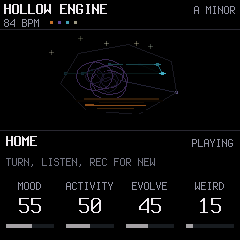
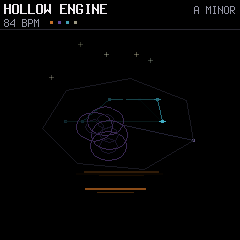
Home screen as The Outside Inside's: the view full-screen, K1-K4 the layers' levels shown while they turn, HOME held + K1-K4 the macros
Claude-Session: https://claude.ai/code/session_01BZyVySDnxf9xQi9jonD4bJ

diff --git a/app/app.c b/app/app.c
@@ -4,8 +4,10 @@
  * host/plat_host.c): gfx.c and announce.c are in scope.
  *
  * Controls
- *   K1-K4              the page's four macros
+ *   K1-K4              at HOME the layers' levels (shown while they turn); HOME held + K1-K4 the macros (MOOD,
+ *                      ACTIVITY, EVOLVE, WEIRD); on the other pages, their four macros
  *   HOME EDIT SEQ ENV FX LFO GLO ARP   the pages: HOME, SOUND, SEQUENCE, MIX, EFFECTS, MOTION, SCALE, MIDI
+ *   HOME tapped at HOME   the processor's load, and whether saving works
  *   SELECT, SEL        the layer the SOUND, SEQUENCE and MIX pages (and the keys) play
  *   PRESET             the chosen layer's engine
  *   ALGORITHM          your saved pieces
@@ -208,11 +210,12 @@ static struct {
     int last_knob; uint32_t knob_at;      /* the knob turned last: its name and value, big */
     char pop_t[28], pop_s[28], pop_3[40]; uint16_t pop_c; uint32_t pop_until;
     uint32_t list_until;                  /* the saved pieces' list */
-    uint32_t rec_t; int rec_used, sel_used, home_tap;
+    uint32_t rec_t; int rec_used, sel_used, home_used;
+    uint32_t panel_until; int panel_kind;     /* HOME: the levels (0) or the macros (1), shown a moment after a turn */
     uint32_t last_view, last_panel, last_head;
     uint8_t key_notes[NKEYS][5], key_n[NKEYS];
     int last_note, last_chord;
-    char head_key[64]; uint32_t panel_key;
+    char head_key[64];
     float t;
     uint32_t uiq_tail;
     uint32_t splash_t0; int splash_on, touched;
@@ -418,9 +421,18 @@ static void knob_turn(int k, int d)
     if (ann_on()) { char s[24]; knob_text(ui.page, k, s); say_text(kn->name, s); }
 }
 
+/* HOME: the knobs are the layers' levels, shown while they turn (HOME held: the macros) */
+static void level_turn(int l, int d)
+{
+    LayerP *lp = &set.cur.l[l];
+    lp->level = (uint8_t)clamp(lp->level + 2 * d, 0, 100);
+    changed();
+    ui.panel_kind = 0; ui.panel_until = plat_ms() + 2000u; ui.last_knob = l; ui.knob_at = plat_ms(); ui.pop_until = 0;
+    if (ann_on()) { char n[8]; int_text(lp->level, n); say_text(LAYER_NAME[l], n); }
+}
+
 static void page_to(int pg)
 {
-    if (pg == PG_HOME && ui.page == PG_HOME) { info(); return; }   /* HOME again: how the FM-1 is doing */
     ui.page = pg; ui.knob_at = 0; ui.pop_until = 0;
     if (ann_on()) say_text(PAGE_NAME[pg], page_has_layer(pg) ? LAYER_NAME[ui.sel] : "");
 }
@@ -471,7 +483,10 @@ static void input(void)
     int32_t d;
     if (down || (keys & ~ui.keys)) ui.touched = 1;
 
-    for (int pg = 0; pg < NPAGES; pg++) if (down >> PAGE_BTN[pg] & 1u) page_to(pg);
+    for (int pg = 1; pg < NPAGES; pg++) if (down >> PAGE_BTN[pg] & 1u) page_to(pg);
+    /* HOME: from another page, home; held, the macros; tapped at home, how the FM-1 is doing */
+    if (down >> B_HOME & 1u) { ui.home_used = ui.page != PG_HOME; if (ui.page != PG_HOME) page_to(PG_HOME); }
+    if ((up >> B_HOME & 1u) && !ui.home_used) info();
     if (down >> B_SEL & 1u) ui.sel_used = 0;
     if ((up >> B_SEL & 1u) && !ui.sel_used) select_layer(ui.sel + 1);
     if (down >> B_REC & 1u) {
@@ -486,7 +501,13 @@ static void input(void)
     if (down >> B_OCTUP & 1u) hist_step(1);
     keys_input(keys);
 
-    for (int k = 0; k < 4; k++) if ((d = enc(EN_K1 + k)) != 0) knob_turn(k, (int)d);
+    for (int k = 0; k < 4; k++) {
+        if ((d = enc(EN_K1 + k)) == 0) continue;
+        if (ui.page != PG_HOME) knob_turn(k, (int)d);
+        else if (btn >> B_HOME & 1u) { knob_turn(k, (int)d); ui.home_used = 1; ui.panel_kind = 1; ui.panel_until = plat_ms() + 1500u; }
+        else level_turn(k, (int)d);
+    }
+    if (btn >> B_HOME & 1u) { ui.panel_kind = 1; ui.panel_until = plat_ms() + 300u; }   /* held: the macros stay up */
     if ((d = enc(EN_SELECT)) != 0) select_layer(ui.sel + (int)d);
     if ((d = enc(EN_ALGO)) != 0) load_step((int)d);
     if ((d = enc(EN_PRESET)) != 0) {
@@ -511,9 +532,9 @@ void app_input_only(void) { input(); }
  * low down, BODY rings, LIGHT a bright point joined to the last by a line (the melody drawn), DUST specks. */
 #define HEAD_H 30
 #define VIEW_Y HEAD_H
-#define VIEW_H 100
-#define PANEL_Y (VIEW_Y + VIEW_H)
-#define PANEL_H (240 - PANEL_Y)
+#define VIEW_H (240 - HEAD_H)
+#define PANEL_H 110
+#define PANEL_TOP (VIEW_H - PANEL_H)     /* the panel, over the view's lower part */
 #define NSHAPE 96
 typedef struct { uint8_t on, layer; float x, y, age, life, size, vel; float px, py; } shape_t;
 static shape_t shp[NSHAPE];
@@ -584,7 +605,7 @@ static void draw_harmony(void)
 {
     const Scale *sc = &SCALES[set.cur.scale % NUM_SCALES];
     int n = sc->n, root = ((eng.root % n) + n) % n;
-    float cx = 120.0f, cy = (float)VIEW_H * 0.5f, r = 40.0f, rot = ui.t * 0.05f;
+    float cx = 120.0f, cy = (float)VIEW_H * 0.45f, r = 52.0f, rot = ui.t * 0.05f;
     float px = 0, py = 0, fx = 0, fy = 0;
     for (int i = 0; i <= n; i++) {
         float a = rot + (float)(i % n) / (float)n, x = cx + r * 1.5f * fm_sin_turns(a), y = cy - r * 0.9f * fm_sin_turns(a + 0.25f);
@@ -640,7 +661,7 @@ static void draw_popup(void)
     int wt = text_w(&FONT_S, ui.pop_t), ws = text_w(&FONT_M, ui.pop_s), w3 = ui.pop_3[0] ? text_w(&FONT_S, ui.pop_3) : 0;
     int w = wt > ws ? wt : ws; if (w3 > w) w = w3;
     w = clamp(w + 28, 120, 236);
-    int h = ui.pop_3[0] ? 78 : 58, y0 = (VIEW_H - h) / 2;
+    int h = ui.pop_3[0] ? 78 : 58, y0 = (PANEL_TOP - h) / 2 + 4;
     frame_box(120 - w / 2, y0, w, h, ui.pop_c);
     cv_text(120 - wt / 2, y0 + 7, &FONT_S, ui.pop_t, ui.pop_c);
     cv_text(120 - ws / 2, y0 + 25, &FONT_M, ui.pop_s, C_TXT);
@@ -651,7 +672,7 @@ static void draw_list(void)                 /* the saved pieces, around the one 
 {
     int n = set.nsaved, cur = set.slot == 255 ? 0 : set.slot, rows = 4;
     int first = clamp(cur - rows / 2, 0, n > rows ? n - rows : 0);
-    frame_box(6, 2, 228, 96, C_TXT);
+    frame_box(6, 4, 228, 94, C_TXT);
     cv_text(14, 6, &FONT_S, "PIECES", C_TXT);
     for (int i = 0; i < rows && first + i < n; i++) {
         char t[40], nm[32]; int y = 26 + i * 18;
@@ -661,15 +682,20 @@ static void draw_list(void)                 /* the saved pieces, around the one 
     }
 }
 
+static int panel_on(void) { return ui.page != PG_HOME || plat_ms() < ui.panel_until; }
+static void draw_panel_rows(int y0);
+
 static void draw_view(void)
 {
     uint32_t now = plat_ms();
-    for (int half = 0; half < 2; half++) {
-        int top = half ? VIEW_H / 2 : 0, h = half ? VIEW_H - VIEW_H / 2 : VIEW_H / 2;
+    int panel = panel_on();
+    for (int top = 0; top < VIEW_H; top += 60) {
+        int h = VIEW_H - top < 60 ? VIEW_H - top : 60;
         cv_begin(240, (uint32_t)h, C_BLACK);
         cv_oy = -top; cv_y0 = 0; cv_y1 = h;
         draw_shapes();
-        if (!set.playing) { int w = text_w(&FONT_M, "STOPPED"); cv_text(120 - w / 2, VIEW_H / 2 - 12, &FONT_M, "STOPPED", C_SUB); }
+        if (!set.playing) { int w = text_w(&FONT_M, "STOPPED"); cv_text(120 - w / 2, (panel ? PANEL_TOP : VIEW_H) / 2 - 12, &FONT_M, "STOPPED", C_SUB); }
+        if (panel && top + h > PANEL_TOP) { cv_rect(0, PANEL_TOP, 240, PANEL_H, C_BLACK); draw_panel_rows(PANEL_TOP); }
         if (now < ui.list_until) draw_list();
         else if (now < ui.pop_until) draw_popup();
         cv_blit(0, (uint32_t)(VIEW_Y + top));
@@ -698,31 +724,51 @@ static void draw_header(void)
     cv_blit(0, 0);
 }
 
-/* the panel: the page's name (and its layer), the knob turned last in big letters, then the four knobs */
-static void draw_panel_rows(void)
+/* the panel: the page's name (and its layer), the knob turned last in big letters, then the four knobs. At HOME:
+ * the four layers' levels (each column's bar the layer sounding now, the white mark its level), or, HOME held, the
+ * macros that steer where the music goes */
+static void draw_levels(int y0)
+{
+    cv_rect(0, y0, 240, 1, C_RULE);
+    for (int l = 0; l < NUM_LAYERS; l++) {
+        int cx = 30 + 60 * l, top = y0 + 26, h = 54, hot = ui.knob_at && plat_ms() - ui.knob_at < 2000u && ui.last_knob == l;
+        const char *nm = LAYER_NAME[l];
+        if (hot) cv_rect(60 * l + 1, y0 + 1, 58, PANEL_H - 1, RGB(20, 20, 26));
+        cv_text(cx - text_w(&FONT_B, nm) / 2, y0 + 6, &FONT_B, nm, LAYER_C[l]);
+        cv_rect(cx - 9, top, 18, h, C_WELL);
+        int m = (int)(eng.meter[l] * (float)h);
+        cv_rect(cx - 7, top + h - m, 14, m, dim(LAYER_C[l], 0.65f));
+        int lv = set.cur.l[l].level, my = top + h - lv * h / 100;
+        cv_rect(cx - 13, my - 1, 26, 3, C_WHITE);
+        char v[8]; int_text(lv, v);
+        cv_text(cx - text_w(&FONT_B, v) / 2, top + h + 5, &FONT_B, v, hot ? C_WHITE : C_TXT);
+    }
+}
+
+static void draw_panel_rows(int y0)
 {
     int pg = ui.page, lay = page_has_layer(pg);
     uint16_t pc = lay ? LAYER_C[ui.sel] : C_TXT;
-    cv_rect(0, 0, 240, 1, C_RULE);
-    cv_text(6, 4, &FONT_B, PAGE_NAME[pg], C_TXT);
-    if (lay) { const char *n = LAYER_NAME[ui.sel]; cv_text(234 - text_w(&FONT_B, n), 4, &FONT_B, n, pc); }
-    else if (pg == PG_HOME) { const char *n = set.playing ? "PLAYING" : "STOPPED"; cv_text(234 - text_w(&FONT_XS, n), 7, &FONT_XS, n, C_SUB); }
+    if (pg == PG_HOME && ui.panel_kind == 0) { draw_levels(y0); return; }
+    cv_rect(0, y0, 240, 1, C_RULE);
+    cv_text(6, y0 + 4, &FONT_B, pg == PG_HOME ? "MACROS" : PAGE_NAME[pg], C_TXT);
+    if (lay) { const char *n = LAYER_NAME[ui.sel]; cv_text(234 - text_w(&FONT_B, n), y0 + 4, &FONT_B, n, pc); }
     /* the knob turned last, big */
     int focus = ui.knob_at && plat_ms() - ui.knob_at < 2500u;
     if (focus) {
         char v[24]; knob_text(pg, ui.last_knob, v);
         const char *nm = PAGES[pg][ui.last_knob].name;
-        int x = cv_text(6, 24, &FONT_S, nm, C_SUB);
-        cv_text(x + 10, 20, &FONT_M, v, pc);
+        int x = cv_text(6, y0 + 24, &FONT_S, nm, C_SUB);
+        cv_text(x + 10, y0 + 20, &FONT_M, v, pc);
     } else {
         static const char *const HINT[NPAGES] = {
-            "TURN, LISTEN, REC FOR NEW", "SELECT CHOOSES THE LAYER", "SELECT CHOOSES THE LAYER", "SELECT CHOOSES THE LAYER",
+            "WHERE THE MUSIC GOES", "SELECT CHOOSES THE LAYER", "SELECT CHOOSES THE LAYER", "SELECT CHOOSES THE LAYER",
             "THE SPACE AROUND IT", "HOW THE LAYERS MOVE", "EVERYTHING IN THE SCALE", "OUT OVER USB" };
-        cv_text(6, 26, &FONT_XS, HINT[pg], dim(C_SUB, 0.8f));
+        cv_text(6, y0 + 26, &FONT_XS, HINT[pg], dim(C_SUB, 0.8f));
     }
     /* four columns: label, value, bar */
     for (int k = 0; k < 4; k++) {
-        int x0 = 60 * k, cx = x0 + 30, y = 50;
+        int cx = 60 * k + 30, y = y0 + 50;
         int hot = focus && k == ui.last_knob;
         const char *nm = PAGES[pg][k].name;
         cv_text(cx - text_w(&FONT_XS, nm) / 2, y, &FONT_XS, nm, hot ? pc : C_SUB);
@@ -736,17 +782,6 @@ static void draw_panel_rows(void)
     }
 }
 
-static void draw_panel(void)
-{
-    for (int half = 0; half < 2; half++) {
-        int top = half ? PANEL_H / 2 : 0, h = half ? PANEL_H - PANEL_H / 2 : PANEL_H / 2;
-        cv_begin(240, (uint32_t)h, C_BLACK);
-        cv_oy = -top; cv_y0 = 0; cv_y1 = h;
-        draw_panel_rows();
-        cv_blit(0, (uint32_t)(PANEL_Y + top));
-    }
-}
-
 /* a screen reader that asks hears the whole screen */
 static void speak(void)
 {
@@ -756,7 +791,12 @@ static void speak(void)
         text_cat(t, NOTE_NAME[set.cur.key]); text_cat(t, " "); text_cat(t, SCALES[set.cur.scale].name); text_cat(t, ". ");
         text_cat(t, PAGE_NAME[ui.page]); text_cat(t, " page");
         if (page_has_layer(ui.page)) { text_cat(t, ", "); text_cat(t, LAYER_NAME[ui.sel]); }
-        for (int k = 0; k < 4; k++) { char v[24]; knob_text(ui.page, k, v); text_cat(t, ". "); text_cat(t, PAGES[ui.page][k].name); text_cat(t, " "); text_cat(t, v); }
+        for (int k = 0; k < 4; k++) {
+            char v[24];
+            if (ui.page == PG_HOME) { int_text(set.cur.l[k].level, v); text_cat(t, ". "); text_cat(t, LAYER_NAME[k]); }
+            else { knob_text(ui.page, k, v); text_cat(t, ". "); text_cat(t, PAGES[ui.page][k].name); }
+            text_cat(t, " "); text_cat(t, v);
+        }
         ann_say(t, 0, ANN_NOW);
     }
     ann_tick(plat_ms());
@@ -798,7 +838,7 @@ static void splash_end(void)
 {
     ui.splash_on = 0;
     lcd_fill(0, 0, 240, 240, C_BLACK);
-    ui.head_key[0] = 0; ui.panel_key = 0xFFFFFFFFu;
+    ui.head_key[0] = 0;
     ui.last_view = plat_ms();
 }
 
@@ -812,14 +852,6 @@ void app_ui_init(void)
     lcd_fill(0, 0, 240, 240, C_BLACK);
     app_splash();
     ui.splash_on = 1; ui.splash_t0 = plat_ms(); ui.touched = 0;
-}
-
-static uint32_t panel_hash(void)          /* what the panel shows: redrawn when it changes */
-{
-    uint32_t h = (uint32_t)ui.page * 131u + (uint32_t)ui.sel * 7u + (uint32_t)set.playing;
-    for (int k = 0; k < 4; k++) h = h * 33u + *knob_ptr(ui.page, k);
-    if (ui.knob_at && plat_ms() - ui.knob_at < 2500u) h = h * 33u + (uint32_t)ui.last_knob + 1u;
-    return h;
 }
 
 void app_frame(void)
@@ -838,10 +870,6 @@ void app_frame(void)
         ui.last_view = now; ui.t += dt;
         shapes_step(dt);
         draw_view();
-    }
-    {
-        uint32_t h = panel_hash();
-        if (h != ui.panel_key) { ui.panel_key = h; draw_panel(); }
     }
     {   /* the load guard: past 85 % of the render's time, fewer notes; back as it eases */
         uint32_t cpu = plat_cpu_pct();

diff --git a/README.md b/README.md
@@ -33,8 +33,8 @@ stays clear.
 
 | Control | What it does |
 |---|---|
-| K1 to K4 | the page's four macros (the one you turn shows big) |
-| HOME | MOOD (dark to bright, triads to ninths), ACTIVITY, EVOLVE (how much the form changes), WEIRD |
+| K1 to K4 | at HOME, the four layers' levels: they rise up from the bottom of the screen while you turn; on the other pages, the page's four macros (the one you turn shows big) |
+| HOME held + K1 to K4 | the macros that steer where the music goes: MOOD (dark to bright, triads to ninths), ACTIVITY, EVOLVE (how much the form changes), WEIRD |
 | EDIT | SOUND for the chosen layer: ENGINE, TONE, WEIGHT (soft to heavy), WEIRD |
 | SEQ | SEQUENCE for the chosen layer: TYPE, DENSITY, RATE, MUTATE |
 | ENV | MIX for the chosen layer: LEVEL, ATTACK, RELEASE, OCTAVE |
@@ -50,7 +50,7 @@ stays clear.
 | OCT- / OCT+ | back and forward through the pieces REC replaced |
 | SAVE | keep the piece (up to 16); ALGORITHM steps through them |
 | PLAY | stop and start (it fades) |
-| HOME tapped on HOME | the processor's load and whether saving works |
+| HOME | back home from any page; tapped at home, the processor's load and whether saving works |
 | white keys | the scale's notes, up from the key, on the chosen layer's sound: no wrong notes |
 | black keys | the scale's chords: I to VII, then I to IV an octave up (CHORDS sets triads, sevenths, ninths, sus, spread, fifths) |
 

diff --git a/app/site/landing.md b/app/site/landing.md
@@ -20,7 +20,8 @@ installer: `python3 tools/fm1_install.py {{PKG}}`.
 
 | Control | What it does |
 |---|---|
-| K1 to K4 | the page's four macros |
+| K1 to K4 | at HOME the four layers' levels (shown while you turn); on the other pages, the page's four macros |
+| HOME held + K1 to K4 | the macros: MOOD, ACTIVITY, EVOLVE, WEIRD |
 | HOME, EDIT, SEQ, ENV, FX, LFO, GLO, ARP | the pages: HOME, SOUND, SEQUENCE, MIX, EFFECTS, MOTION, SCALE, MIDI |
 | SELECT, or tap SEL | the layer the SOUND, SEQUENCE and MIX pages and the keys play; PRESET its engine |
 | REC | a new piece; held, a new key, scale and tempo too; SEL held + REC, the chosen layer anew |
